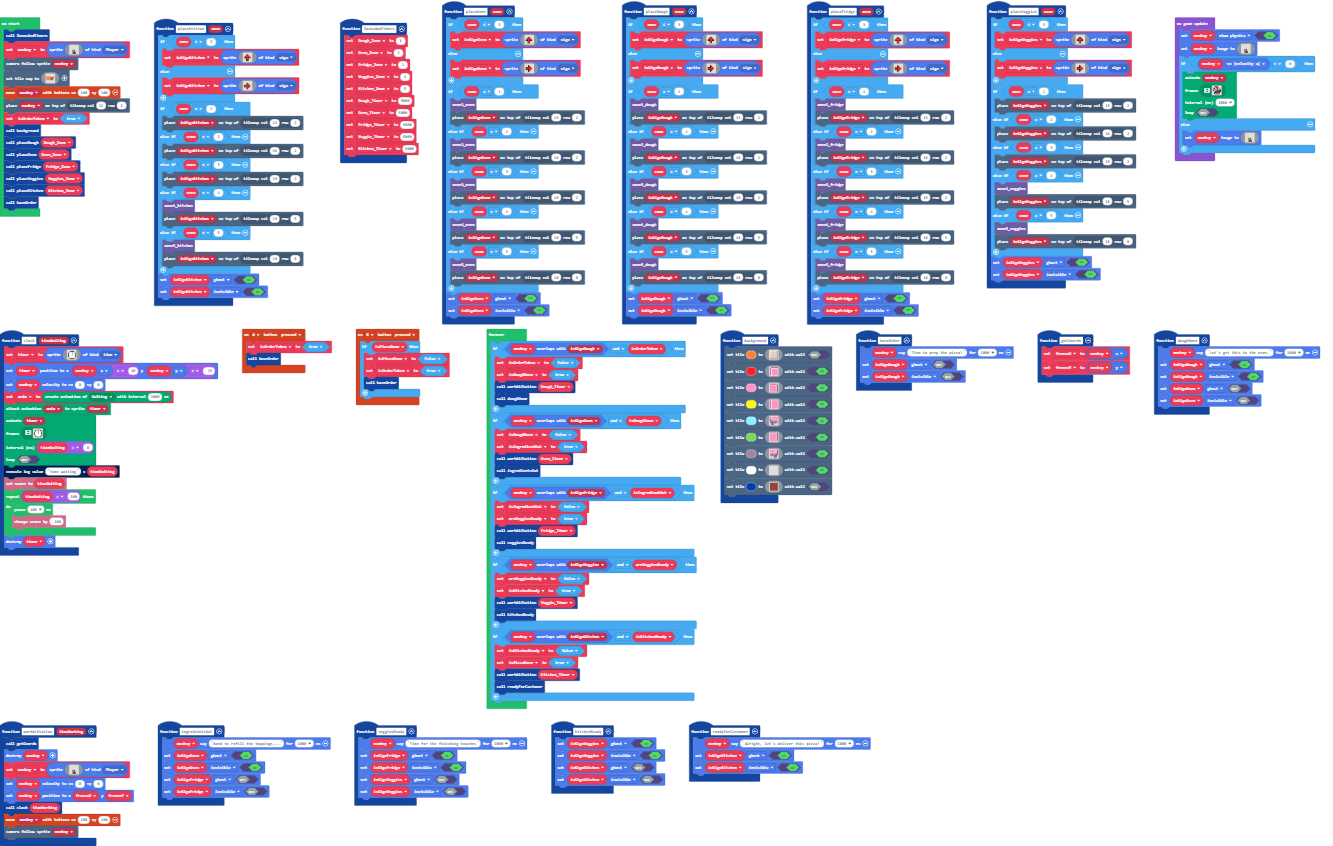
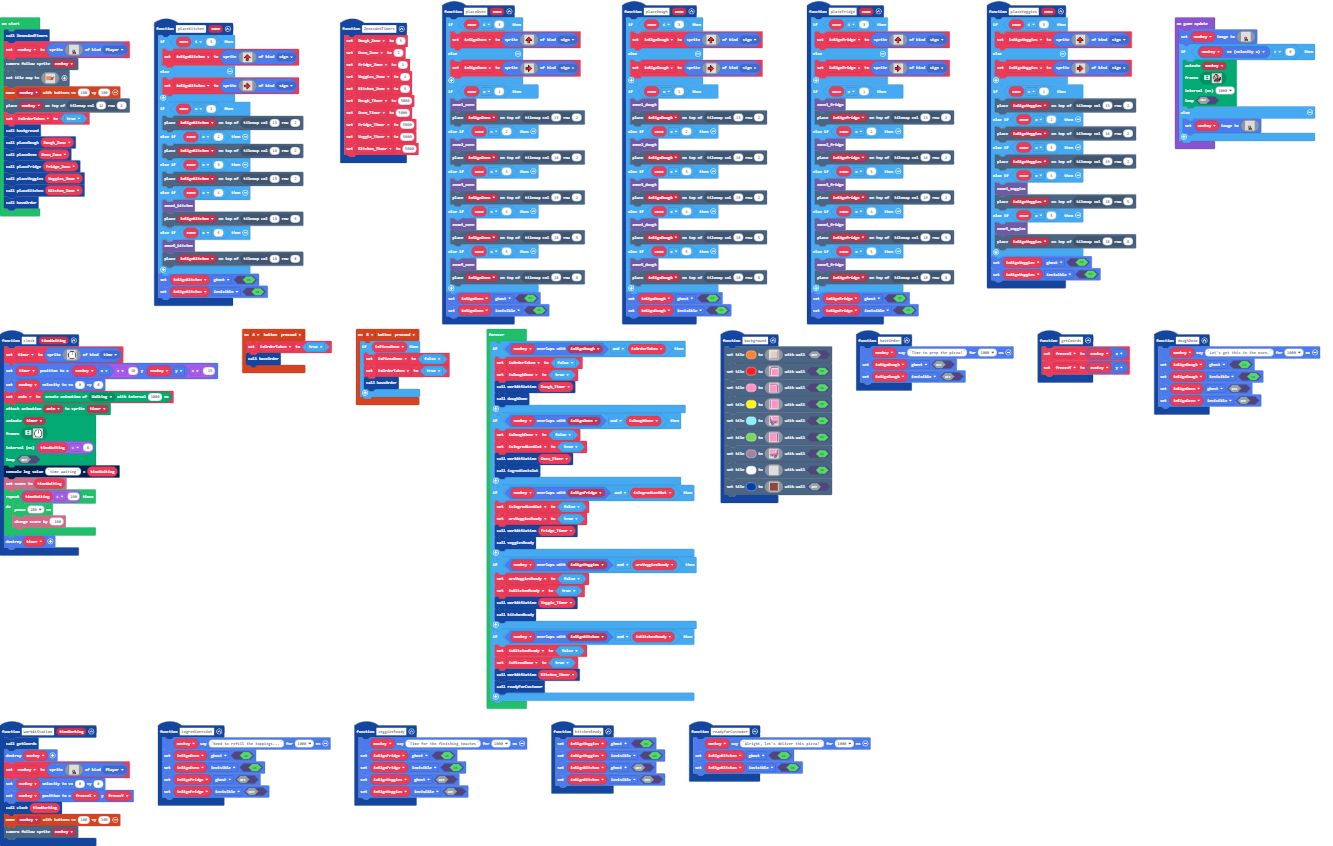
Update main.blocks, main.ts

Changed region(s): [[0.8612, 0.0307, 1.0, 0.2151], [0.6152, 0.0307, 0.7074, 0.0922]]

diff --git a/main.ts b/main.ts
@@ -844,7 +844,6 @@ placeVeggies(Veggies_Zone)
 placeKitchen(Kitchen_Zone)
 haveOrder()
 game.onUpdate(function () {
-    monkey.setFlag(SpriteFlag.ShowPhysics, true)
     monkey.setImage(img`
         . . . . . . . . . . . . . . . . . . . . . . . . . . . . . . . . 
         . . . . . . . . . . . . . . . . . . . . . . . . . . . . . . . . 
